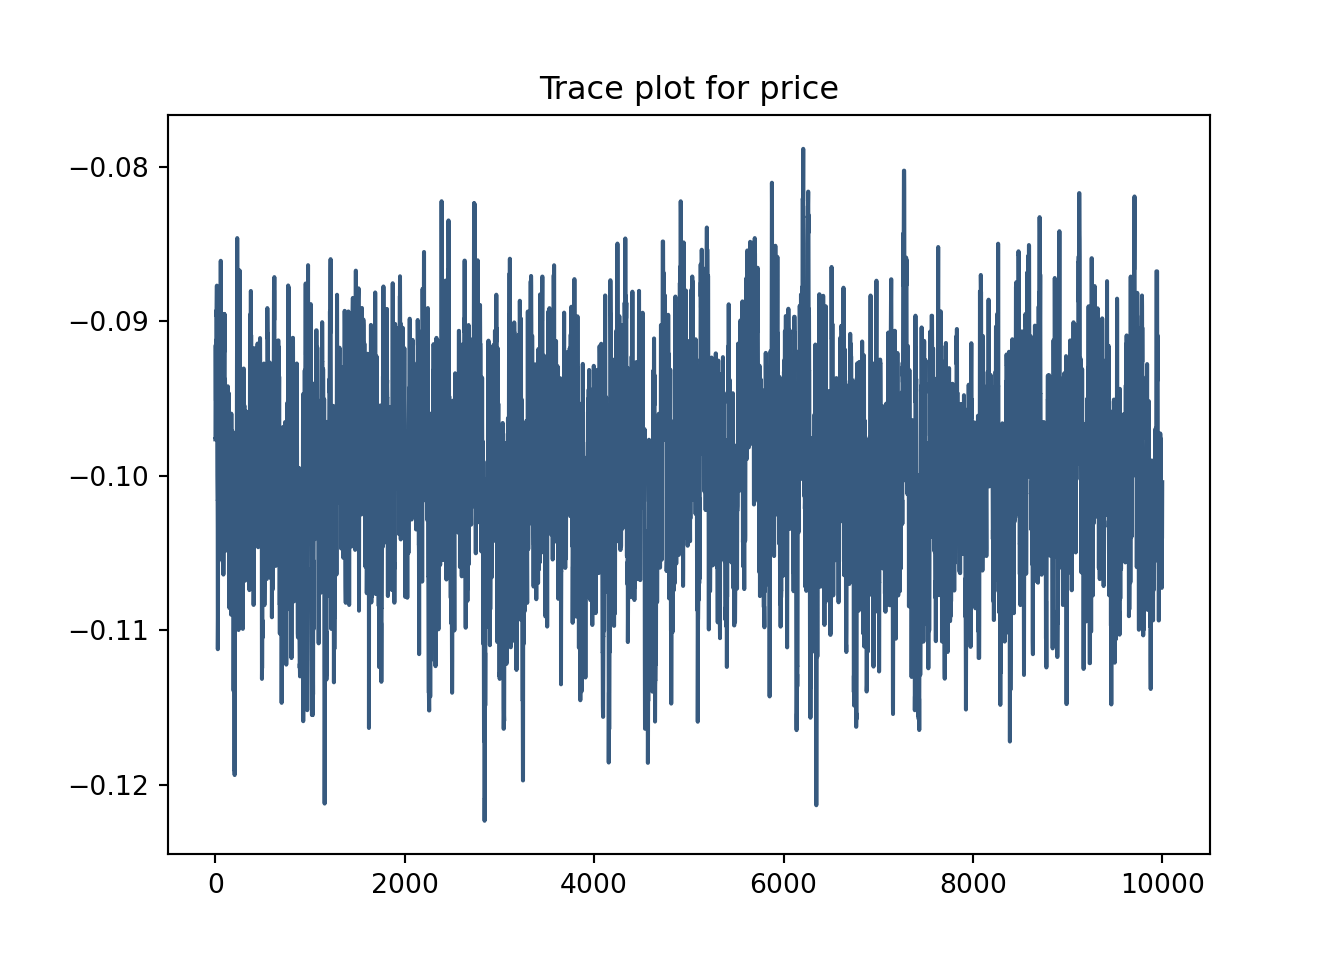
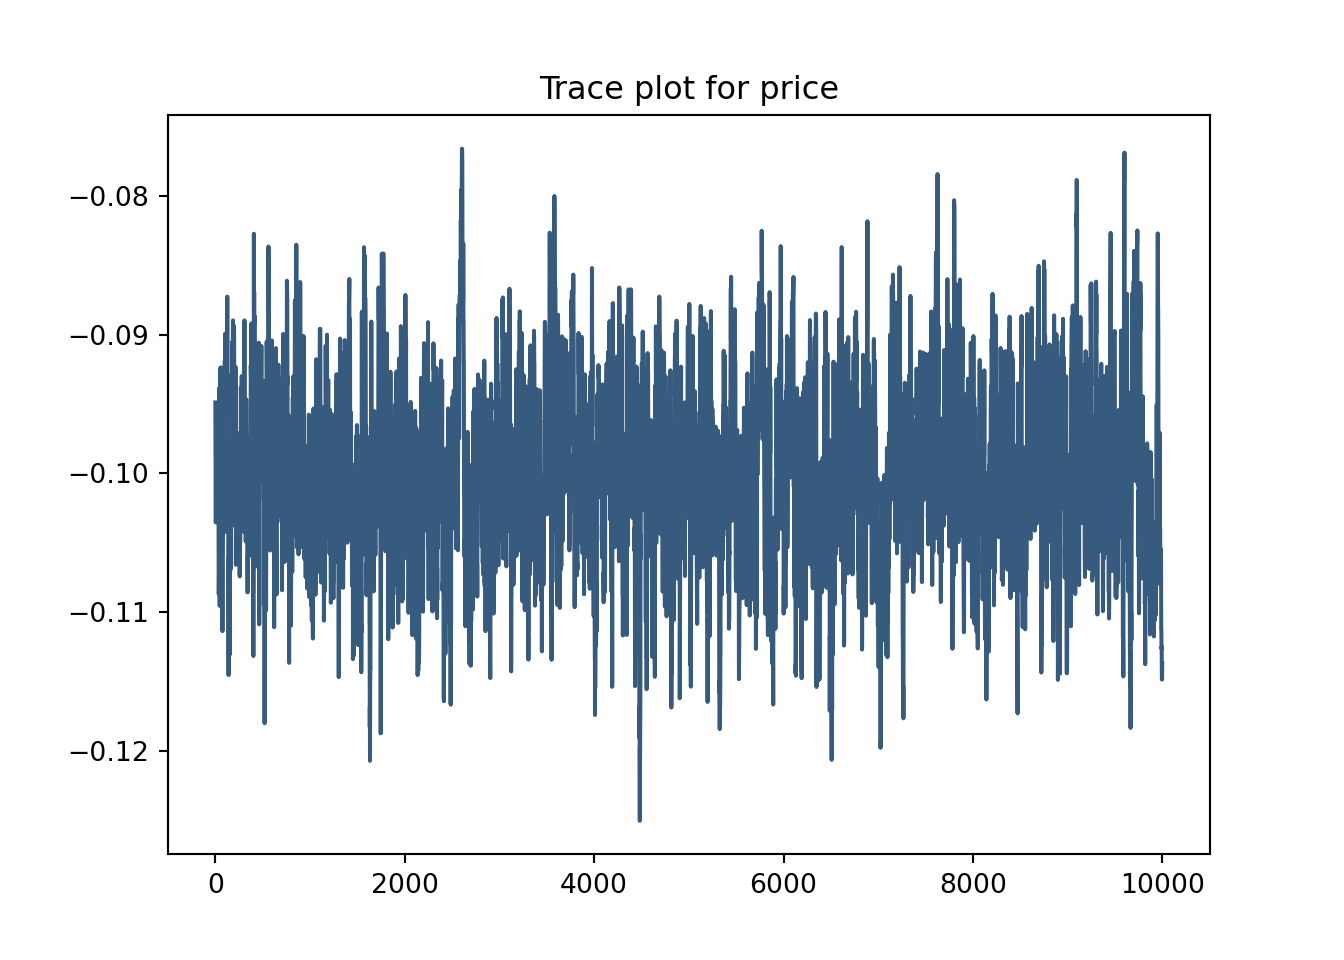
hw3 edited

diff --git a/docs/projects/school/MGTA495/hw3.html b/docs/projects/school/MGTA495/hw3.html
@@ -455,10 +455,10 @@ price: -0.0995 ± 0.0120 → CI: [-0.1115, -0.0875]</code></pre>
 <span id="cb5-32"><a href="#cb5-32" aria-hidden="true" tabindex="-1"></a><span class="cf">for</span> name, m, s, lo, hi <span class="kw">in</span> <span class="bu">zip</span>([<span class="st">'brand_N'</span>, <span class="st">'brand_P'</span>, <span class="st">'ad'</span>, <span class="st">'price'</span>], means, sds, ci_lower, ci_upper):</span>
 <span id="cb5-33"><a href="#cb5-33" aria-hidden="true" tabindex="-1"></a>    <span class="bu">print</span>(<span class="ss">f'</span><span class="sc">{</span>name<span class="sc">}</span><span class="ss">: </span><span class="sc">{</span>m<span class="sc">:.4f}</span><span class="ss"> ± </span><span class="sc">{</span>s<span class="sc">:.4f}</span><span class="ss"> → CI: [</span><span class="sc">{</span>lo<span class="sc">:.4f}</span><span class="ss">, </span><span class="sc">{</span>hi<span class="sc">:.4f}</span><span class="ss">]'</span>)</span></code><button title="Copy to Clipboard" class="code-copy-button"><i class="bi"></i></button></pre></div>
 <div class="cell-output cell-output-stdout">
-<pre><code>brand_N: 0.9403 ± 0.1118 → CI: [0.7230, 1.1737]
-brand_P: 0.4953 ± 0.1120 → CI: [0.2733, 0.7158]
-ad: -0.7295 ± 0.0855 → CI: [-0.9019, -0.5603]
-price: -0.0995 ± 0.0062 → CI: [-0.1123, -0.0874]</code></pre>
+<pre><code>brand_N: 0.9340 ± 0.1102 → CI: [0.7171, 1.1524]
+brand_P: 0.4898 ± 0.1058 → CI: [0.2863, 0.7011]
+ad: -0.7287 ± 0.0869 → CI: [-0.8916, -0.5544]
+price: -0.1002 ± 0.0064 → CI: [-0.1128, -0.0875]</code></pre>
 </div>
 <div class="sourceCode cell-code" id="cb7"><pre class="sourceCode python code-with-copy"><code class="sourceCode python"><span id="cb7-1"><a href="#cb7-1" aria-hidden="true" tabindex="-1"></a>plt.rcParams[<span class="st">'axes.prop_cycle'</span>] <span class="op">=</span> cycler(color<span class="op">=</span>[<span class="st">'#375a7f'</span>]) </span>
 <span id="cb7-2"><a href="#cb7-2" aria-hidden="true" tabindex="-1"></a>plt.plot(beta_posterior[:,<span class="dv">3</span>])</span>
@@ -486,7 +486,12 @@ price: -0.0995 ± 0.0062 → CI: [-0.1123, -0.0874]</code></pre>
 </section>
 <section id="discussion" class="level2">
 <h2 class="anchored" data-anchor-id="discussion">6. Discussion</h2>
-<p>Were this data real rather than simulated, we could conclude a few things from our parameter estimates including that consumers prefer Netflix over Amazon Prime, since <span class="math inline">\(\beta_{\text{Netflix}} &gt; \beta_{\text{Prime}}\)</span>. A negative <span class="math inline">\(\beta_{\text{price}}\)</span> indicates that as price increases, the likelihood of a consumer choosing a streaming service decreases, which aligns with standard economic intuition about price sensitivity.</p>
+<p>Were this data real rather than simulated, we could conclude a few things from our parameter estimates including:</p>
+<ul>
+<li>Consumers prefer Netflix over Amazon Prime and both over Hulu, since <span class="math inline">\(\beta_{\text{Netflix}} &gt; \beta_{\text{Prime}}\)</span> and both are positive</li>
+<li>A negative <span class="math inline">\(\beta_{\text{ad}}\)</span> indicates consumers prefer streaming services without ads</li>
+<li>A negative <span class="math inline">\(\beta_{\text{price}}\)</span> indicates that as price increases, the likelihood of a consumer choosing a streaming service decreases, which aligns with standard economic intuition about price sensitivity</li>
+</ul>
 <p>To move to a hierarchical model, we would simulate each respondent’s preferences by drawing their betas from a population-level normal distribution. To estimate the model, we’d use hierarchical Bayesian methods that jointly estimate individual-level betas and the overall population parameters.</p>
 
 

diff --git a/docs/projects.html b/docs/projects.html
@@ -230,7 +230,7 @@ window.Quarto = {
 <div class="quarto-listing quarto-listing-container-grid" id="listing-listing">
 <div class="list grid quarto-listing-cols-3">
 
-<div class="g-col-1" data-index="0" data-categories="U2Nob29sJTJDTUdUQTQ5NQ==" data-listing-date-sort="1748415600000" data-listing-file-modified-sort="1748480597590" data-listing-date-modified-sort="NaN" data-listing-reading-time-sort="8" data-listing-word-count-sort="1532">
+<div class="g-col-1" data-index="0" data-categories="U2Nob29sJTJDTUdUQTQ5NQ==" data-listing-date-sort="1748415600000" data-listing-file-modified-sort="1748481367187" data-listing-date-modified-sort="NaN" data-listing-reading-time-sort="8" data-listing-word-count-sort="1549">
 <a href="./projects/school/MGTA495/hw3.html" class="quarto-grid-link">
 <div class="quarto-grid-item card h-100 card-left">
 
